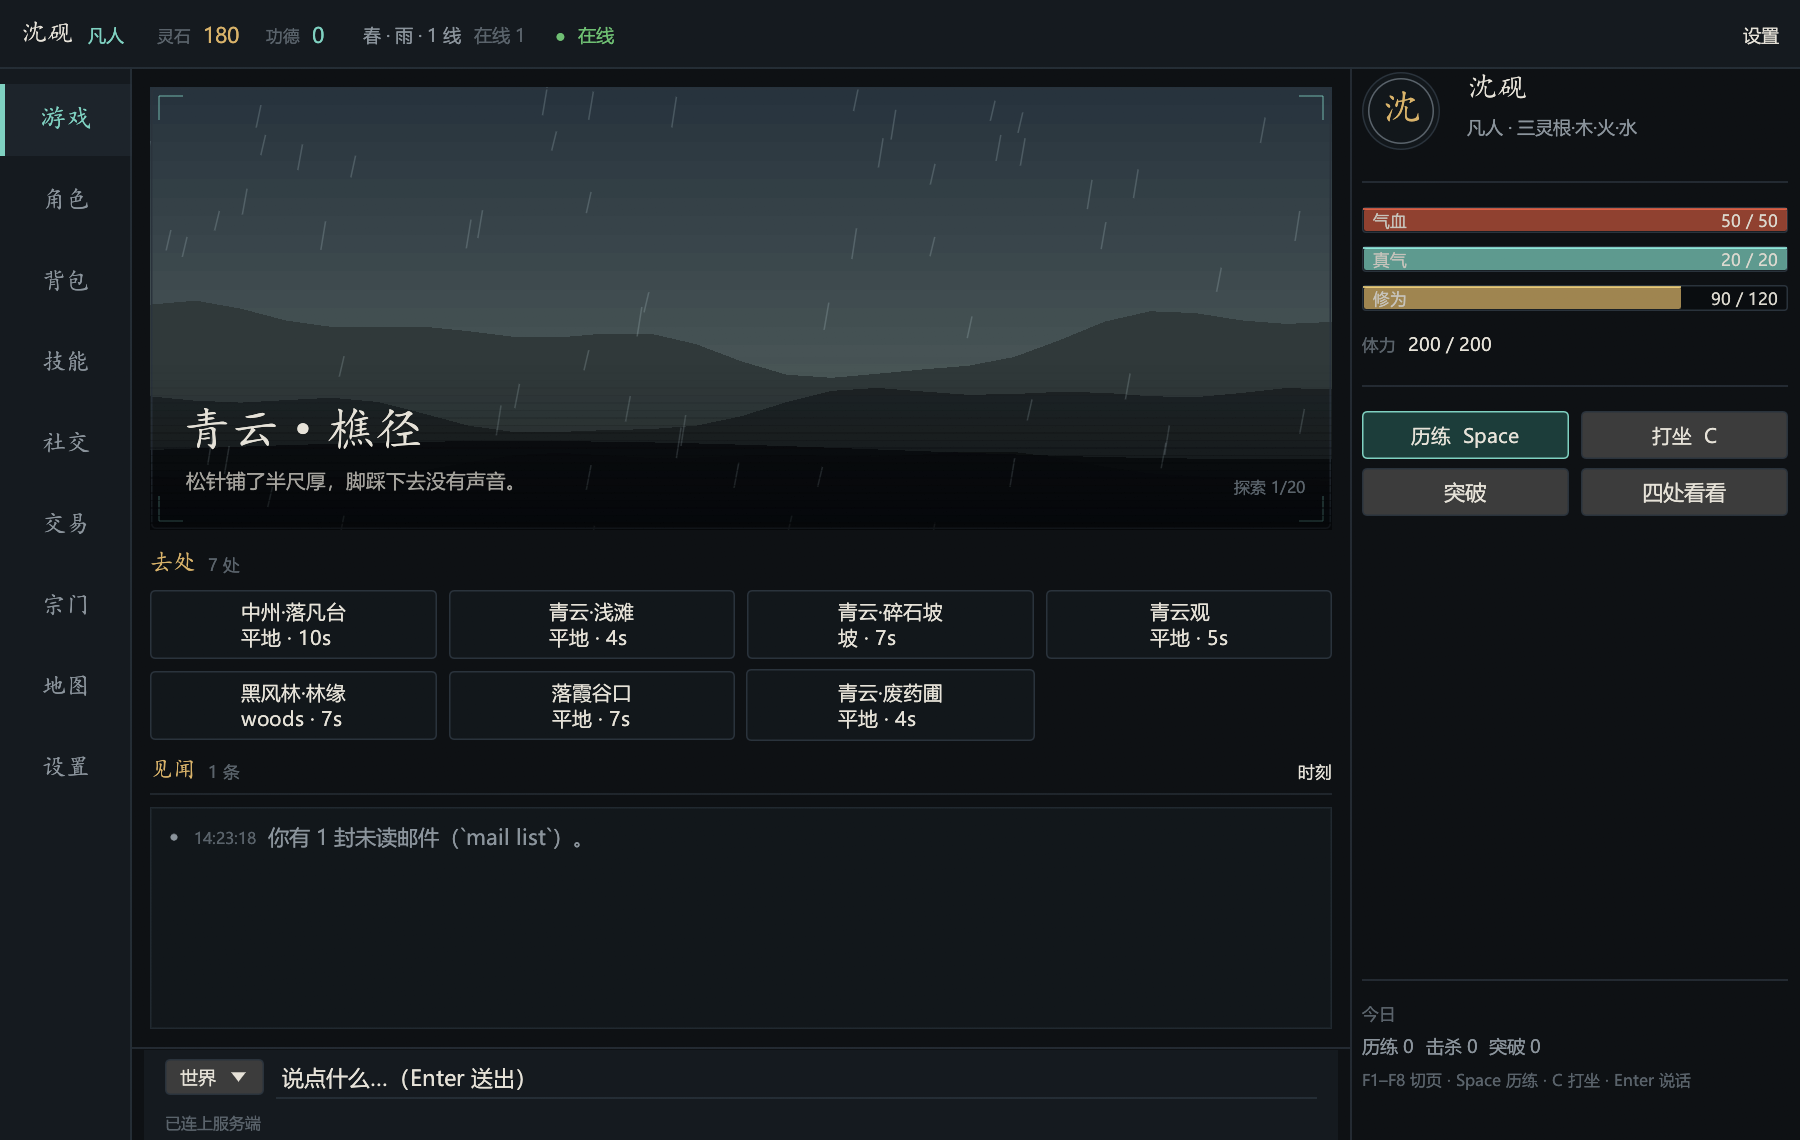
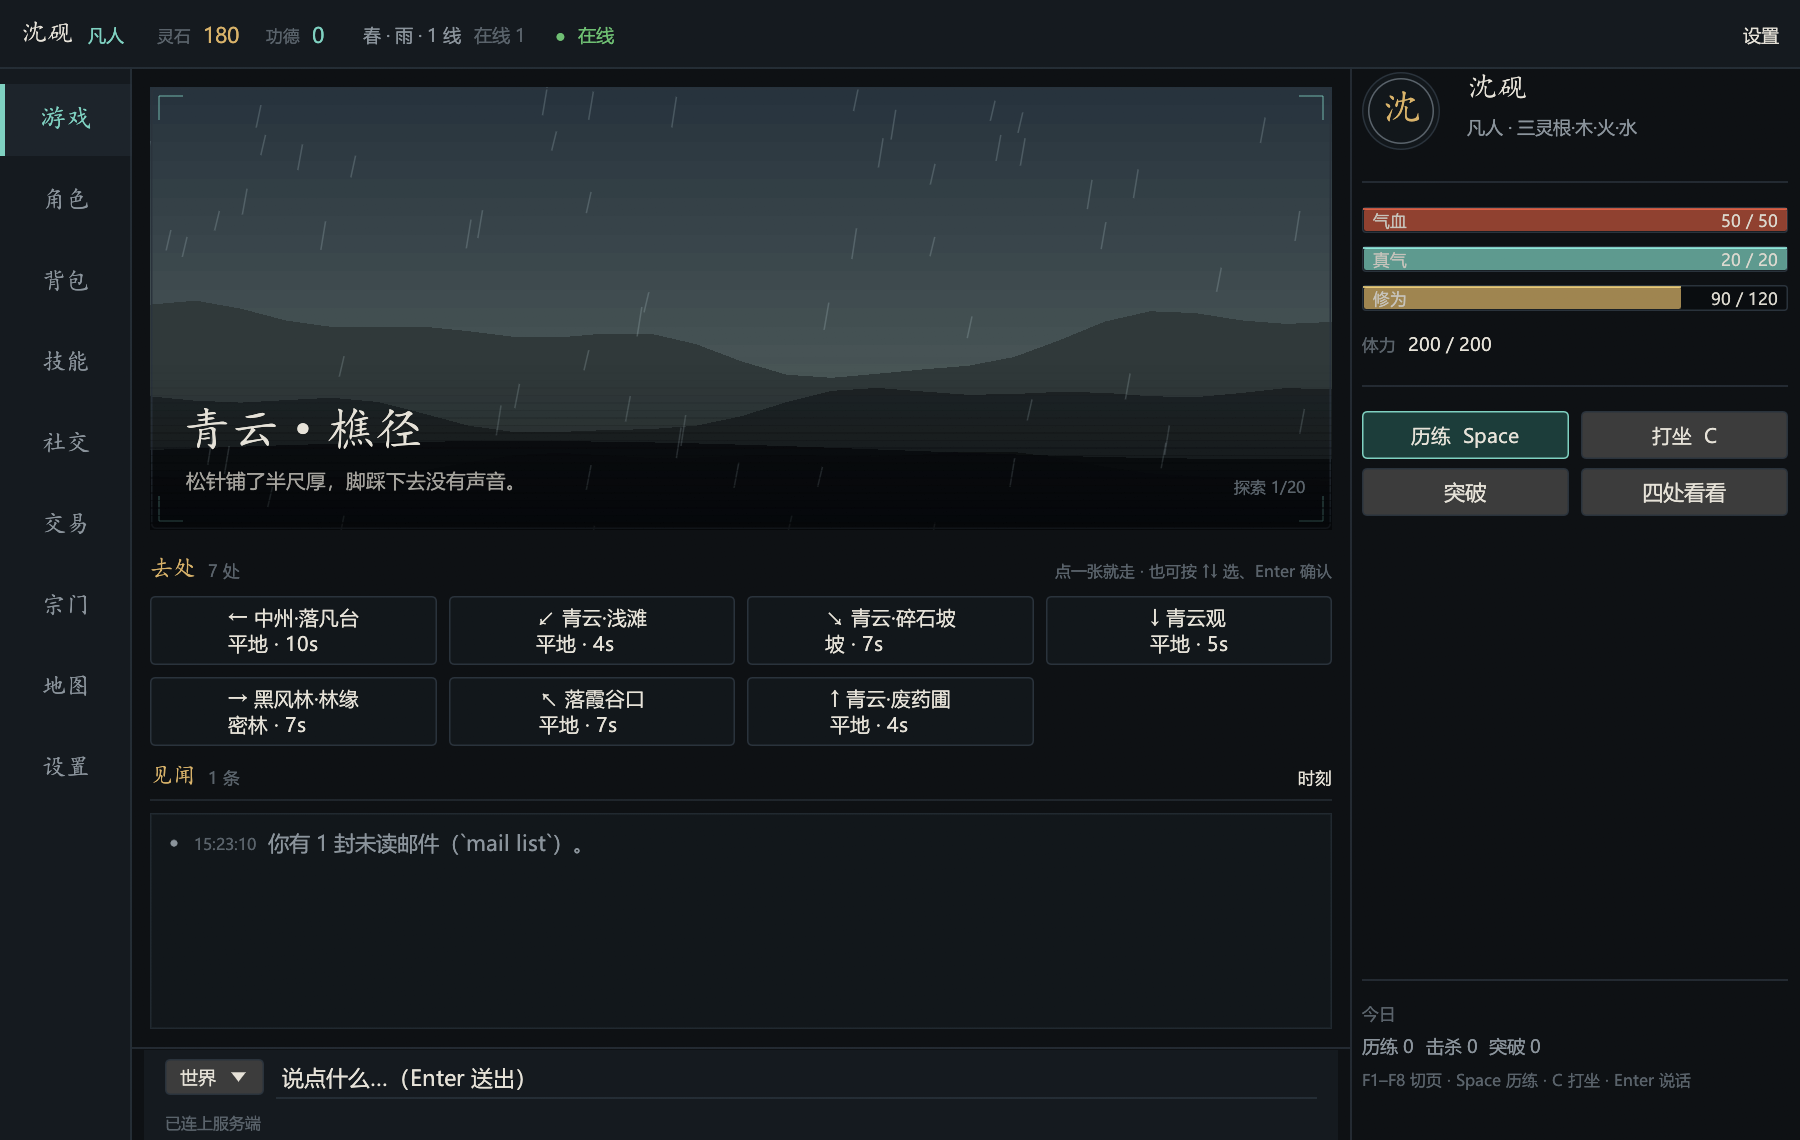
feat(ui): 补移动提示——方位箭头、可点暗示、赶路状态条
用户反馈"没有明显的移动提示"。原来出口只是几块等宽卡片，看不出往哪走、点了会怎样。

- 方位：按 map.x/y 算 8 向箭头（→↗↑↖←↙↓↘），写在卡片名前；无坐标时省略
- 可点暗示：去处标题右侧常驻"点一张就走 · 也可按 ↑↓ 选、Enter 确认"；
  悬停显示"前往 X · 约 N 秒"，走不了显示具体原因（断路/缺什么/正在赶路）
- 赶路状态条：场景正下方一条玉青描边横幅——目的地 + "路上不能历练、交易" + 剩余时间；
  同时所有出口置灰（服务端也会拒，先拦一道）；右栏不再重复倒计时
- 地形：补 woods → 密林，spring → 灵泉（场景绘制同步认 woods，之前密林不画树）
- 联调：--move n 进主界面后自动走第 n 个出口（截图/回归用）
- 文档：C-05 升 3.2.2；换主界面截图，新增赶路状态截图

diff --git a/src/ui/views/game.rs b/src/ui/views/game.rs
@@ -264,22 +264,6 @@ fn character_panel(ctx: &egui::Context, st: &mut UiState, app: &AppState, out: &
                 }
             });
 
-            if let Some(t) = p.and_then(|p| p.travel.as_ref()) {
-                let left = t.arrive_at - app.server_now();
-                ui.horizontal(|ui| {
-                    ui.label(RichText::new("赶路").size(11.0).color(theme::FAINT));
-                    ui.label(
-                        RichText::new(format!(
-                            "{} · {}",
-                            t.name,
-                            crate::util::time::fmt_countdown(left)
-                        ))
-                        .size(12.0)
-                        .color(theme::ACCENT),
-                    );
-                });
-            }
-
             ui.add_space(10.0);
             ui.separator();
             ui.add_space(8.0);
@@ -441,8 +425,15 @@ fn game_page(ui: &mut egui::Ui, st: &mut UiState, app: &AppState, out: &mut Vec<
         scene_h,
     );
 
-    ui.add_space(8.0);
-    exits_row(ui, st, m, out);
+    ui.add_space(6.0);
+    travel_bar(ui, st, app);
+    ui.add_space(6.0);
+    let traveling = app
+        .player
+        .get()
+        .map(|p| p.travel.is_some())
+        .unwrap_or(false);
+    exits_row(ui, st, m, out, traveling);
 
     ui.add_space(6.0);
     ui.horizontal(|ui| {
@@ -494,6 +485,7 @@ fn exits_row(
     st: &mut UiState,
     m: &crate::protocol::msg::MapView,
     out: &mut Vec<Intent>,
+    traveling: bool,
 ) {
     ui.horizontal(|ui| {
         ui.label(
@@ -506,6 +498,13 @@ fn exits_row(
                 .size(11.0)
                 .color(theme::FAINT),
         );
+        ui.with_layout(Layout::right_to_left(Align::Center), |ui| {
+            ui.label(
+                RichText::new("点一张就走 · 也可按 ↑↓ 选、Enter 确认")
+                    .size(10.5)
+                    .color(theme::FAINT),
+            );
+        });
     });
     ui.add_space(2.0);
     if m.exits.is_empty() {
@@ -531,7 +530,8 @@ fn exits_row(
                     .filter(|s| !s.is_empty())
                     .unwrap_or_else(|| "雾中".into());
                 let blocked = ex.blocked == Some(true);
-                let ok = ex.ok && !blocked;
+                // 赶路中所有出口都不可点：服务端也会拒，这里先拦一道。
+                let ok = ex.ok && !blocked && !traveling;
                 let mut sub = format!("{} · {}s", terrain_name(&ex.terrain), ex.cost_sec);
                 if let Some(fee) = ex.fee
                     && fee > 0
@@ -546,8 +546,15 @@ fn exits_row(
                     sub.push('·');
                     sub.push_str(&cond_text(cond));
                 }
+                // 有坐标就按真实方位给箭头，一眼知道往哪走。
+                let arrow = match (m.x, m.y, ex.x, ex.y) {
+                    (Some(cx), Some(cy), Some(tx), Some(ty)) => {
+                        format!("{} ", bearing_arrow(tx - cx, ty - cy))
+                    }
+                    _ => String::new(),
+                };
                 let color = if ok { theme::TEXT } else { theme::FAINT };
-                let text = RichText::new(format!("{name}\n{sub}"))
+                let text = RichText::new(format!("{arrow}{name}\n{sub}"))
                     .size(13.0)
                     .color(color);
                 let mut btn = egui::Button::new(text)
@@ -564,7 +571,18 @@ fn exits_row(
                 if ex.temp == Some(true) {
                     btn = btn.stroke(Stroke::new(1.0_f32, theme::WARN.linear_multiply(0.8)));
                 }
-                let resp = ui.add_enabled(ok, btn);
+                let resp = ui.add_enabled(ok, btn).on_hover_text(if ok {
+                    format!("前往 {} · 约 {} 秒", name, ex.cost_sec)
+                } else if traveling {
+                    "正在赶路，到了才能再走".to_string()
+                } else if blocked {
+                    "这条路断了".to_string()
+                } else {
+                    format!(
+                        "走不了：{}",
+                        ex.cond.as_deref().map(cond_text).unwrap_or_default()
+                    )
+                });
                 if resp.clicked() {
                     st.selected_exit = i;
                     out.push(Intent::Move(ex.to.clone()));
@@ -573,6 +591,55 @@ fn exits_row(
                     ui.end_row();
                 }
             }
+        });
+}
+
+/// 8 向箭头。服务端 y 向北为正，屏幕向上，所以直接用 dy 求角。
+fn bearing_arrow(dx: i32, dy: i32) -> &'static str {
+    if dx == 0 && dy == 0 {
+        return "·";
+    }
+    const ARROWS: [&str; 8] = ["→", "↗", "↑", "↖", "←", "↙", "↓", "↘"];
+    let ang = (dy as f32).atan2(dx as f32);
+    let idx = (ang / (std::f32::consts::PI / 4.0)).round() as i32;
+    ARROWS[idx.rem_euclid(8) as usize]
+}
+
+/// 赶路状态：放在场景正下方，比塞在右栏一行小字显眼。
+fn travel_bar(ui: &mut egui::Ui, st: &mut UiState, app: &AppState) {
+    let Some(t) = app.player.get().and_then(|p| p.travel.as_ref()) else {
+        return;
+    };
+    let left = t.arrive_at - app.server_now();
+    let _ = st;
+    egui::Frame::new()
+        .fill(Color32::from_rgb(0x18, 0x2A, 0x2A))
+        .stroke(Stroke::new(1.0_f32, theme::ACCENT.linear_multiply(0.7)))
+        .inner_margin(egui::Margin::symmetric(10, 6))
+        .show(ui, |ui| {
+            ui.set_width(ui.available_width());
+            ui.horizontal(|ui| {
+                ui.label(RichText::new("→").size(15.0).color(theme::ACCENT));
+                ui.label(
+                    RichText::new(format!("正在赶往 {}", t.name))
+                        .size(13.0)
+                        .color(theme::TEXT),
+                );
+                ui.label(
+                    RichText::new("路上不能历练、交易")
+                        .size(10.5)
+                        .color(theme::FAINT),
+                );
+                ui.with_layout(Layout::right_to_left(Align::Center), |ui| {
+                    ui.label(
+                        RichText::new(crate::util::time::fmt_countdown(left))
+                            .size(14.0)
+                            .monospace()
+                            .color(theme::ACCENT),
+                    );
+                    ui.label(RichText::new("剩余").size(10.5).color(theme::FAINT));
+                });
+            });
         });
 }
 
@@ -1072,11 +1139,11 @@ fn terrain_name(t: &str) -> &str {
         "plain" => "平地",
         "road" => "官道",
         "trail" => "山径",
-        "forest" => "密林",
+        "woods" | "forest" => "密林",
         "bamboo" => "竹林",
         "river" => "河流",
         "lake" => "湖",
-        "spring" => "泉",
+        "spring" => "灵泉",
         "cliff" => "悬崖",
         "peak" => "峰顶",
         "slope" => "坡",

diff --git a/src/app.rs b/src/app.rs
@@ -28,6 +28,8 @@ pub struct ClientApp {
     pending_create: Option<String>,
     /// `--page`：首次进入主界面时打开这一页（之后清空，不影响正常切页）。
     preferred_page: Option<Page>,
+    /// `--move n`：拿到地图后自动走第 n 个出口（联调/截图用）。
+    pending_move: Option<usize>,
     /// `--snapshot <path>`：启动 5 秒后抓一帧存 PNG 并退出。
     snapshot_path: Option<std::path::PathBuf>,
     snapshot_frames: u32,
@@ -77,6 +79,7 @@ impl ClientApp {
             pending_login: None,
             pending_create: None,
             preferred_page: None,
+            pending_move: None,
             snapshot_path: None,
             snapshot_frames: 0,
         }
@@ -108,6 +111,11 @@ impl ClientApp {
             _ => Page::Game,
         };
         self.preferred_page = Some(self.ui.page);
+    }
+
+    /// 开发/联调：拿到地图后自动走第 n 个出口。
+    pub fn auto_move(&mut self, index: usize) {
+        self.pending_move = Some(index);
     }
 
     /// 开发/联调：主界面出来后抓一帧存 PNG，然后退出。
@@ -220,6 +228,15 @@ impl ClientApp {
             NetEvent::Map(m) => {
                 self.state.apply_map(&m);
                 self.ui.selected_exit = 0;
+                if let Some(i) = self.pending_move.take()
+                    && let Some(ex) = m.exits.get(i)
+                    && ex.ok
+                {
+                    let _ = self.tx.send(NetCmd::Act {
+                        a: action::MOVE.into(),
+                        d: serde_json::json!({ "to": ex.to }),
+                    });
+                }
             }
             NetEvent::Chat(c) => {
                 let head = match c.channel.as_str() {

diff --git a/src/main.rs b/src/main.rs
@@ -24,6 +24,8 @@ struct Args {
     snapshot: Option<String>,
     /// 开发/联调用：`--page map`，启动后直接打开某一页（截图用）。
     page: Option<String>,
+    /// 开发/联调用：`--move 0`，进主界面后自动走第 n 个出口。
+    move_index: Option<usize>,
 }
 
 fn parse_args() -> Args {
@@ -35,6 +37,7 @@ fn parse_args() -> Args {
         create: None,
         snapshot: None,
         page: None,
+        move_index: None,
     };
     let mut it = std::env::args().skip(1);
     while let Some(arg) = it.next() {
@@ -51,6 +54,7 @@ fn parse_args() -> Args {
             "--create" => a.create = it.next(),
             "--snapshot" => a.snapshot = it.next(),
             "--page" => a.page = it.next(),
+            "--move" => a.move_index = it.next().and_then(|v| v.parse().ok()),
             "--log-level" => {
                 if let Some(v) = it.next() {
                     a.log_level = v;
@@ -142,6 +146,7 @@ fn main() -> eframe::Result {
     let create = args.create;
     let snapshot = args.snapshot;
     let page = args.page;
+    let move_index = args.move_index;
 
     eframe::run_native(
         "九州问道",
@@ -160,6 +165,9 @@ fn main() -> eframe::Result {
             }
             if let Some(p) = page.clone() {
                 app.start_page(&p);
+            }
+            if let Some(i) = move_index {
+                app.auto_move(i);
             }
             Ok(Box::new(app))
         }),

diff --git a/src/store/mapgraph.rs b/src/store/mapgraph.rs
@@ -319,9 +319,9 @@ fn hash01(s: &str) -> f32 {
 /// 地形 → 单字标记，画在节点旁边。
 pub fn terrain_glyph(t: &str) -> &'static str {
     match t {
-        "forest" => "林",
+        "woods" | "forest" => "林",
         "bamboo" => "竹",
-        "river" | "lake" | "spring" => "水",
+        "river" | "lake" | "spring" => "泉",
         "cliff" | "peak" | "slope" | "valley" => "山",
         "town" => "镇",
         "gate" => "关",

diff --git a/src/ui/scene.rs b/src/ui/scene.rs
@@ -228,7 +228,7 @@ fn draw_terrain(p: &egui::Painter, rect: Rect, terrain: &str) {
     p.add(Shape::mesh(mesh));
 
     match terrain {
-        "forest" | "bamboo" => {
+        "woods" | "forest" | "bamboo" => {
             let tree_count = if terrain == "bamboo" { 12 } else { 7 };
             for i in 0..tree_count {
                 let t = (i as f32 + 0.7) / tree_count as f32;

diff --git a/docs/00-INDEX.md b/docs/00-INDEX.md
@@ -2,7 +2,7 @@
 
 ```
 doc_id: C-00
-version: 3.2.1
+version: 3.2.2
 updated: 2026-11-22
 owns: 客户端文档的目录、版本矩阵、阅读顺序、与服务端文档的边界
 depends_on: 服务端 docs/05（协议）、docs/12（API 手册）、docs/09（验收）
@@ -42,7 +42,7 @@ depends_on: 服务端 docs/05（协议）、docs/12（API 手册）、docs/09（
 | `C-02` | `02-ARCH.md` | 3.1.0 | 技术选型、crate、分层、目录、线程模型 | 动手写第一行前 |
 | `C-03` | `03-CONNECTION.md` | 3.0.0 | 登录、版本握手、心搏、重连、顶号、限流 | 接第一根线时 |
 | `C-04` | `04-STATE.md` | 3.0.0 | 快照与增量、时钟、到达时刻、禁止本地推导 | 画第一个界面时 |
-| `C-05` | `05-UI.md` | 3.2.1 | 布局、场景、书签、人物卡、舆图、组件、字体、键位 | 画界面时 |
+| `C-05` | `05-UI.md` | 3.2.2 | 布局、场景、书签、人物卡、舆图、移动提示、组件、键位 | 画界面时 |
 | `C-06` | `06-COMBAT.md` | 3.0.0 | 战斗、多人遭遇、实时切磋、秘境、赶路 | 做战斗页时 |
 | `C-07` | `07-SOCIAL-ECON.md` | 3.0.0 | 聊天、好友、师徒、队伍、宗门、交易行、拍卖、邮件 | 做社交与经济页时 |
 | `C-08` | `08-PERF-TEST.md` | 3.0.0 | 重绘预算、内存、UI 测试、帧回放、怎么用服务端脚本验 | 提测前 |
@@ -72,3 +72,4 @@ depends_on: 服务端 docs/05（协议）、docs/12（API 手册）、docs/09（
 | 2026-11-22 | 3.1.0 | M1 落地：界面锁 eframe 0.32 + glow（0.37 的 UI-first 改版不追）；补 `config.rs`、系统字体回退、联调参数；`C-09` 记录 M1 实测 |
 | 2026-11-22 | 3.2.0 | 界面改版为水墨风：程序化场景（远山/地形/天气）、书签导航、人物牌位与自绘状态条、见闻纸页；`--snapshot` 离屏截图落地；修正 DPI 声明与底栏合并 |
 | 2026-11-22 | 3.2.1 | 舆图改为真实坐标：累积已探索节点、按 `map.x/y` 铺开、距离压缩 + 两圈收敛、拖动缩放与点击前往；服务端协议随之补 `x`/`y` |
+| 2026-11-22 | 3.2.2 | 补移动提示：出口卡片方位箭头、标题常驻"点一张就走"、悬停显示耗时/失败原因、赶路状态条；赶路时出口置灰；补 `woods` 地形中文 |

diff --git a/docs/05-UI.md b/docs/05-UI.md
@@ -2,7 +2,7 @@
 
 ```
 doc_id: C-05
-version: 3.2.1
+version: 3.2.2
 updated: 2026-11-22
 owns: 窗口与页面、主界面布局、场景绘制、书签导航、人物卡、数据页结构、组件规范、主题与字体、键位
 depends_on: C-02、C-04、服务端 05（动作与推送）
@@ -101,8 +101,18 @@ depends_on: C-02、C-04、服务端 05（动作与推送）
 
 ## 7. 去处与见闻
 
-- 去处：卡片按可用宽度自动排（每张约 188 宽），每张两行——**节点名 / 地形 · 耗时**；
+移动提示是这个界面的第一优先级，三处一起给：
+
+1. **方位箭头**：按服务端 `map.x/y` 算 8 向（→↗↑↖←↙↓↘），写在卡片名前面。
+   没有坐标时省略箭头，不影响卡片本身。
+2. **可点暗示**：区块标题右侧常驻"点一张就走 · 也可按 ↑↓ 选、Enter 确认"；
+   卡片悬停显示"前往 X · 约 N 秒"，走不了的行显示具体原因（断路 / 缺什么 / 正在赶路）。
+3. **赶路状态条**：出发后场景正下方出现一条玉青描边的横幅——"→ 正在赶往 X / 路上不能历练、交易 / 剩余 00:09"，
+   同时所有出口卡片置灰（服务端也会拒，客户端先拦一道）。
+
+- 卡片按可用宽度自动排（每张约 188 宽），每张两行——**箭头 + 节点名 / 地形 · 耗时**；
   不可通行整卡降透明度并显示条件；断路显式写"断路"；临时路（`temp`）用金色描边。
+- 赶路条只在 `state.travel` 非空时出现，到达即消失；右栏不再重复显示赶路，避免两处倒计时。
 - 见闻：纸页底 + 细边，行高 22；行首 2.2px 色点表示类型，时间戳 10.5 弱化；
   旁白用衬线 15（像书页），其余无衬线；自动贴底，用户上滚后暂停并给出"↓ 到底"。
 
